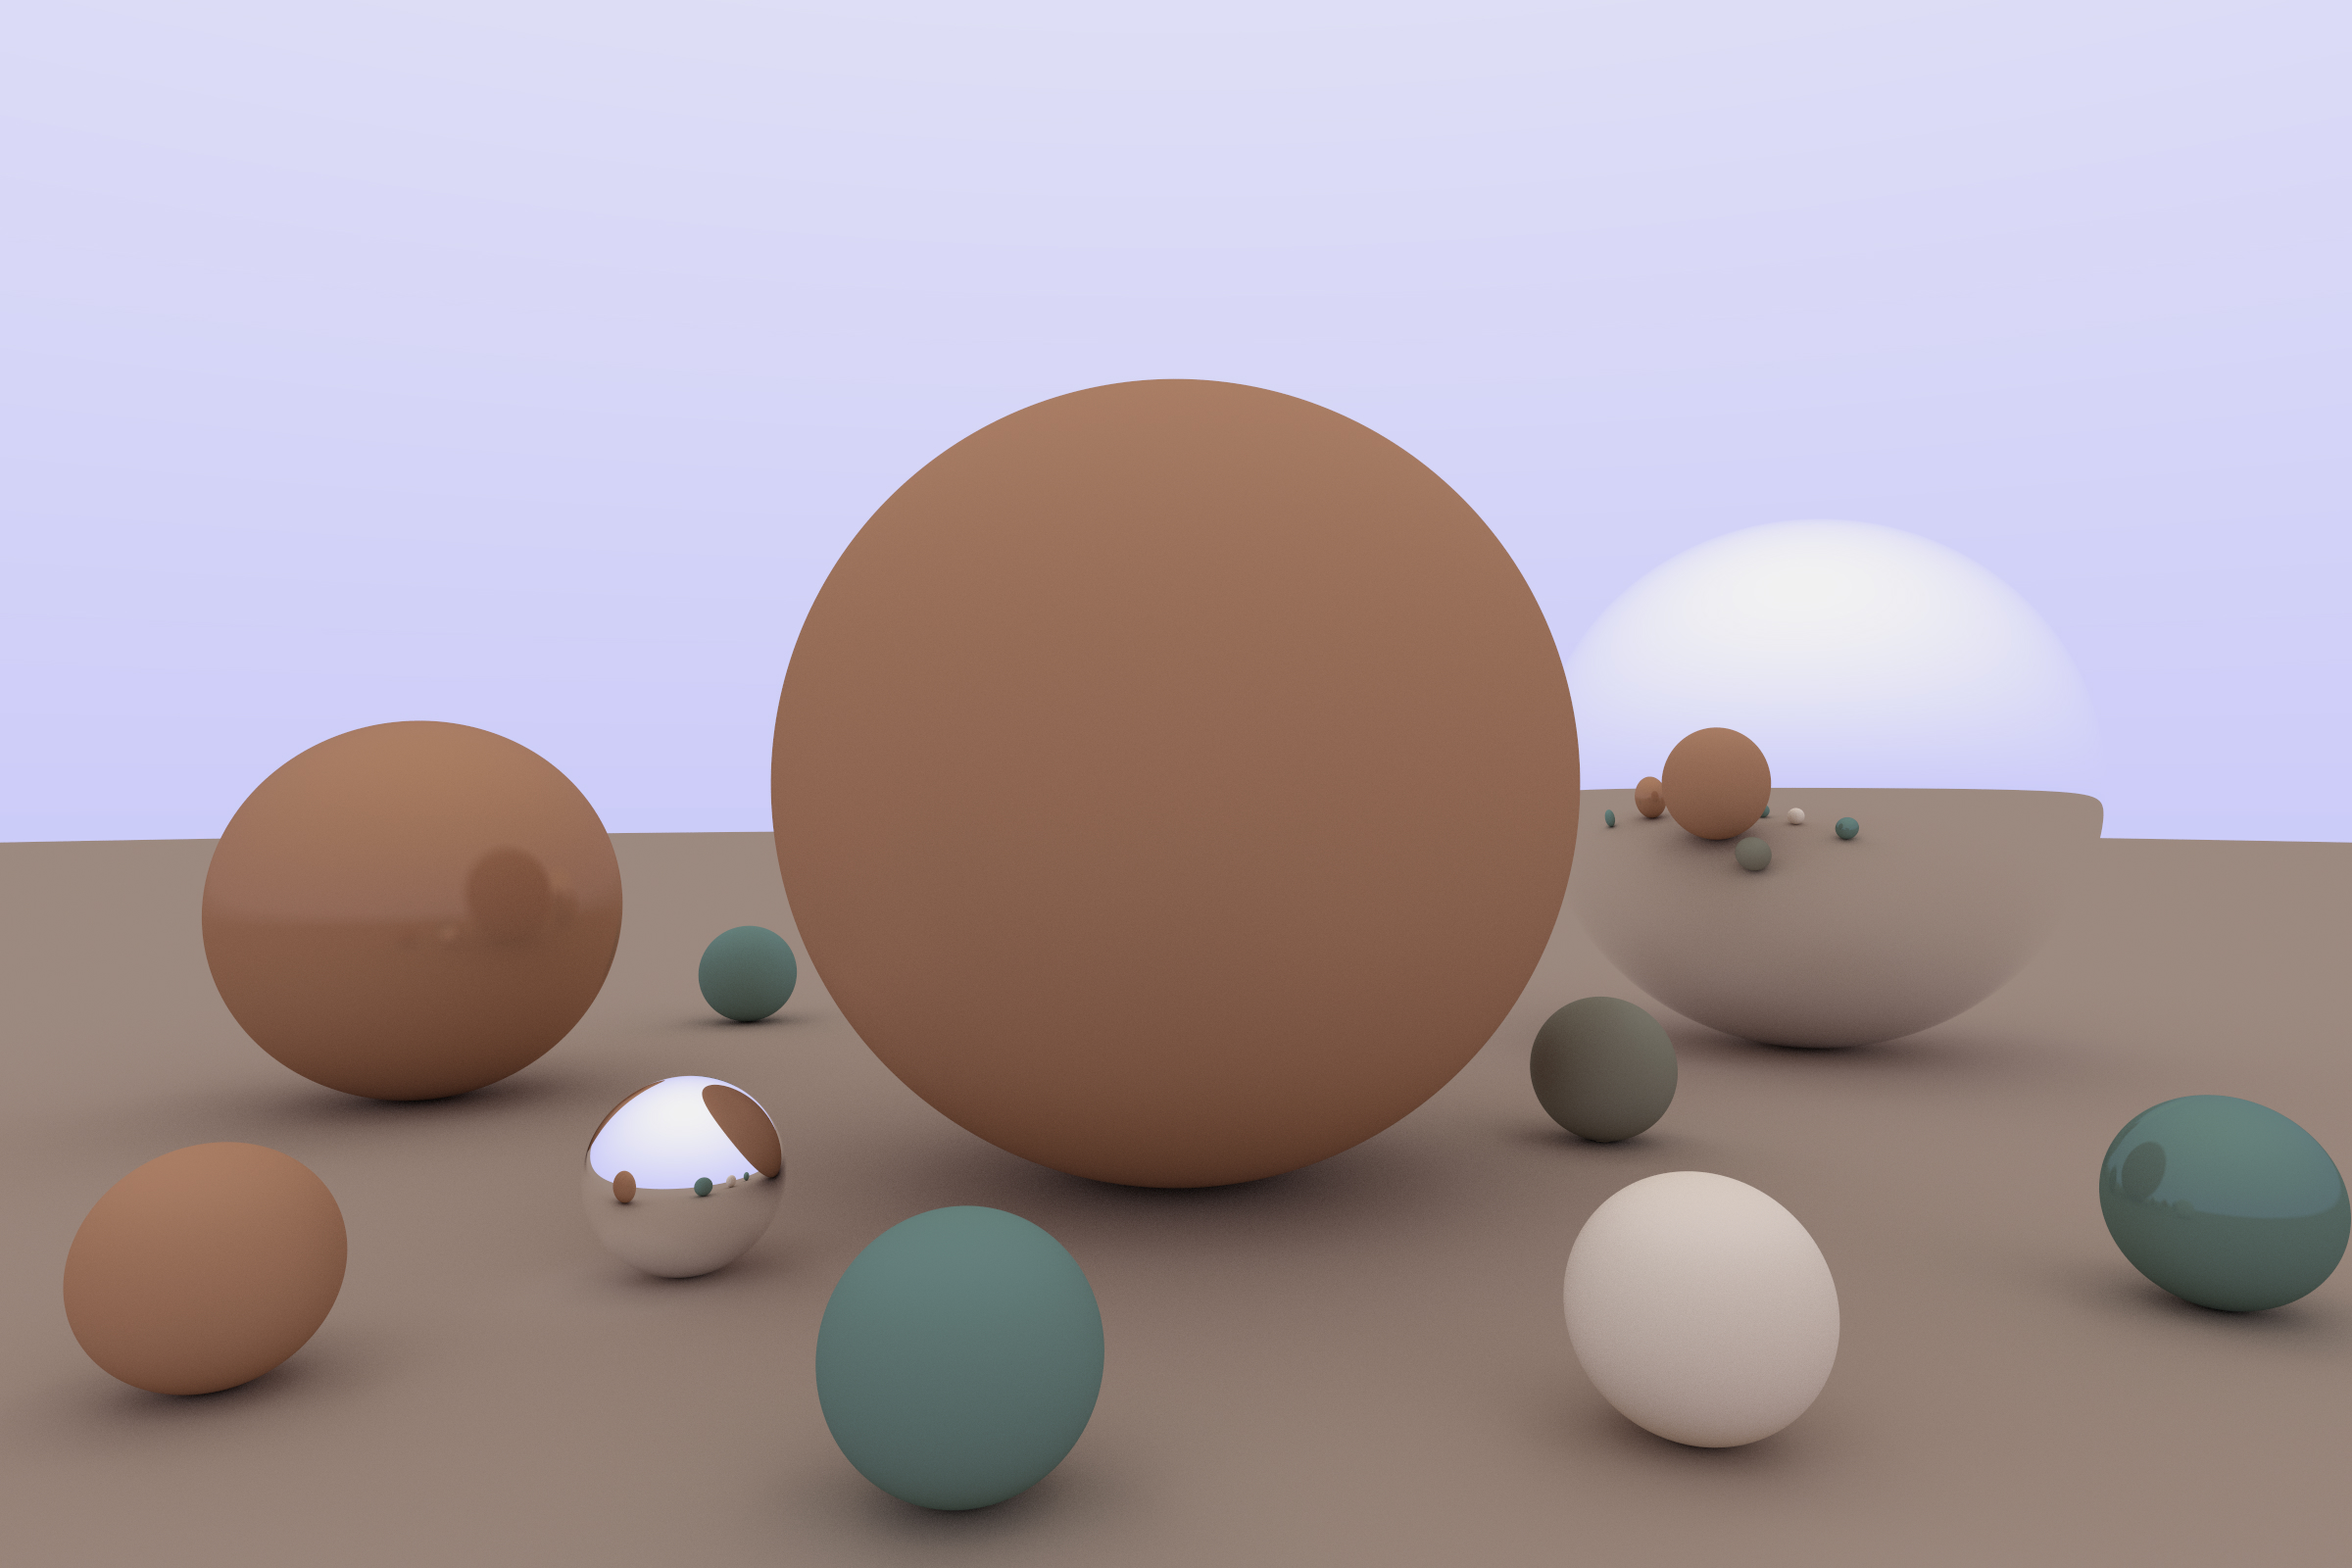
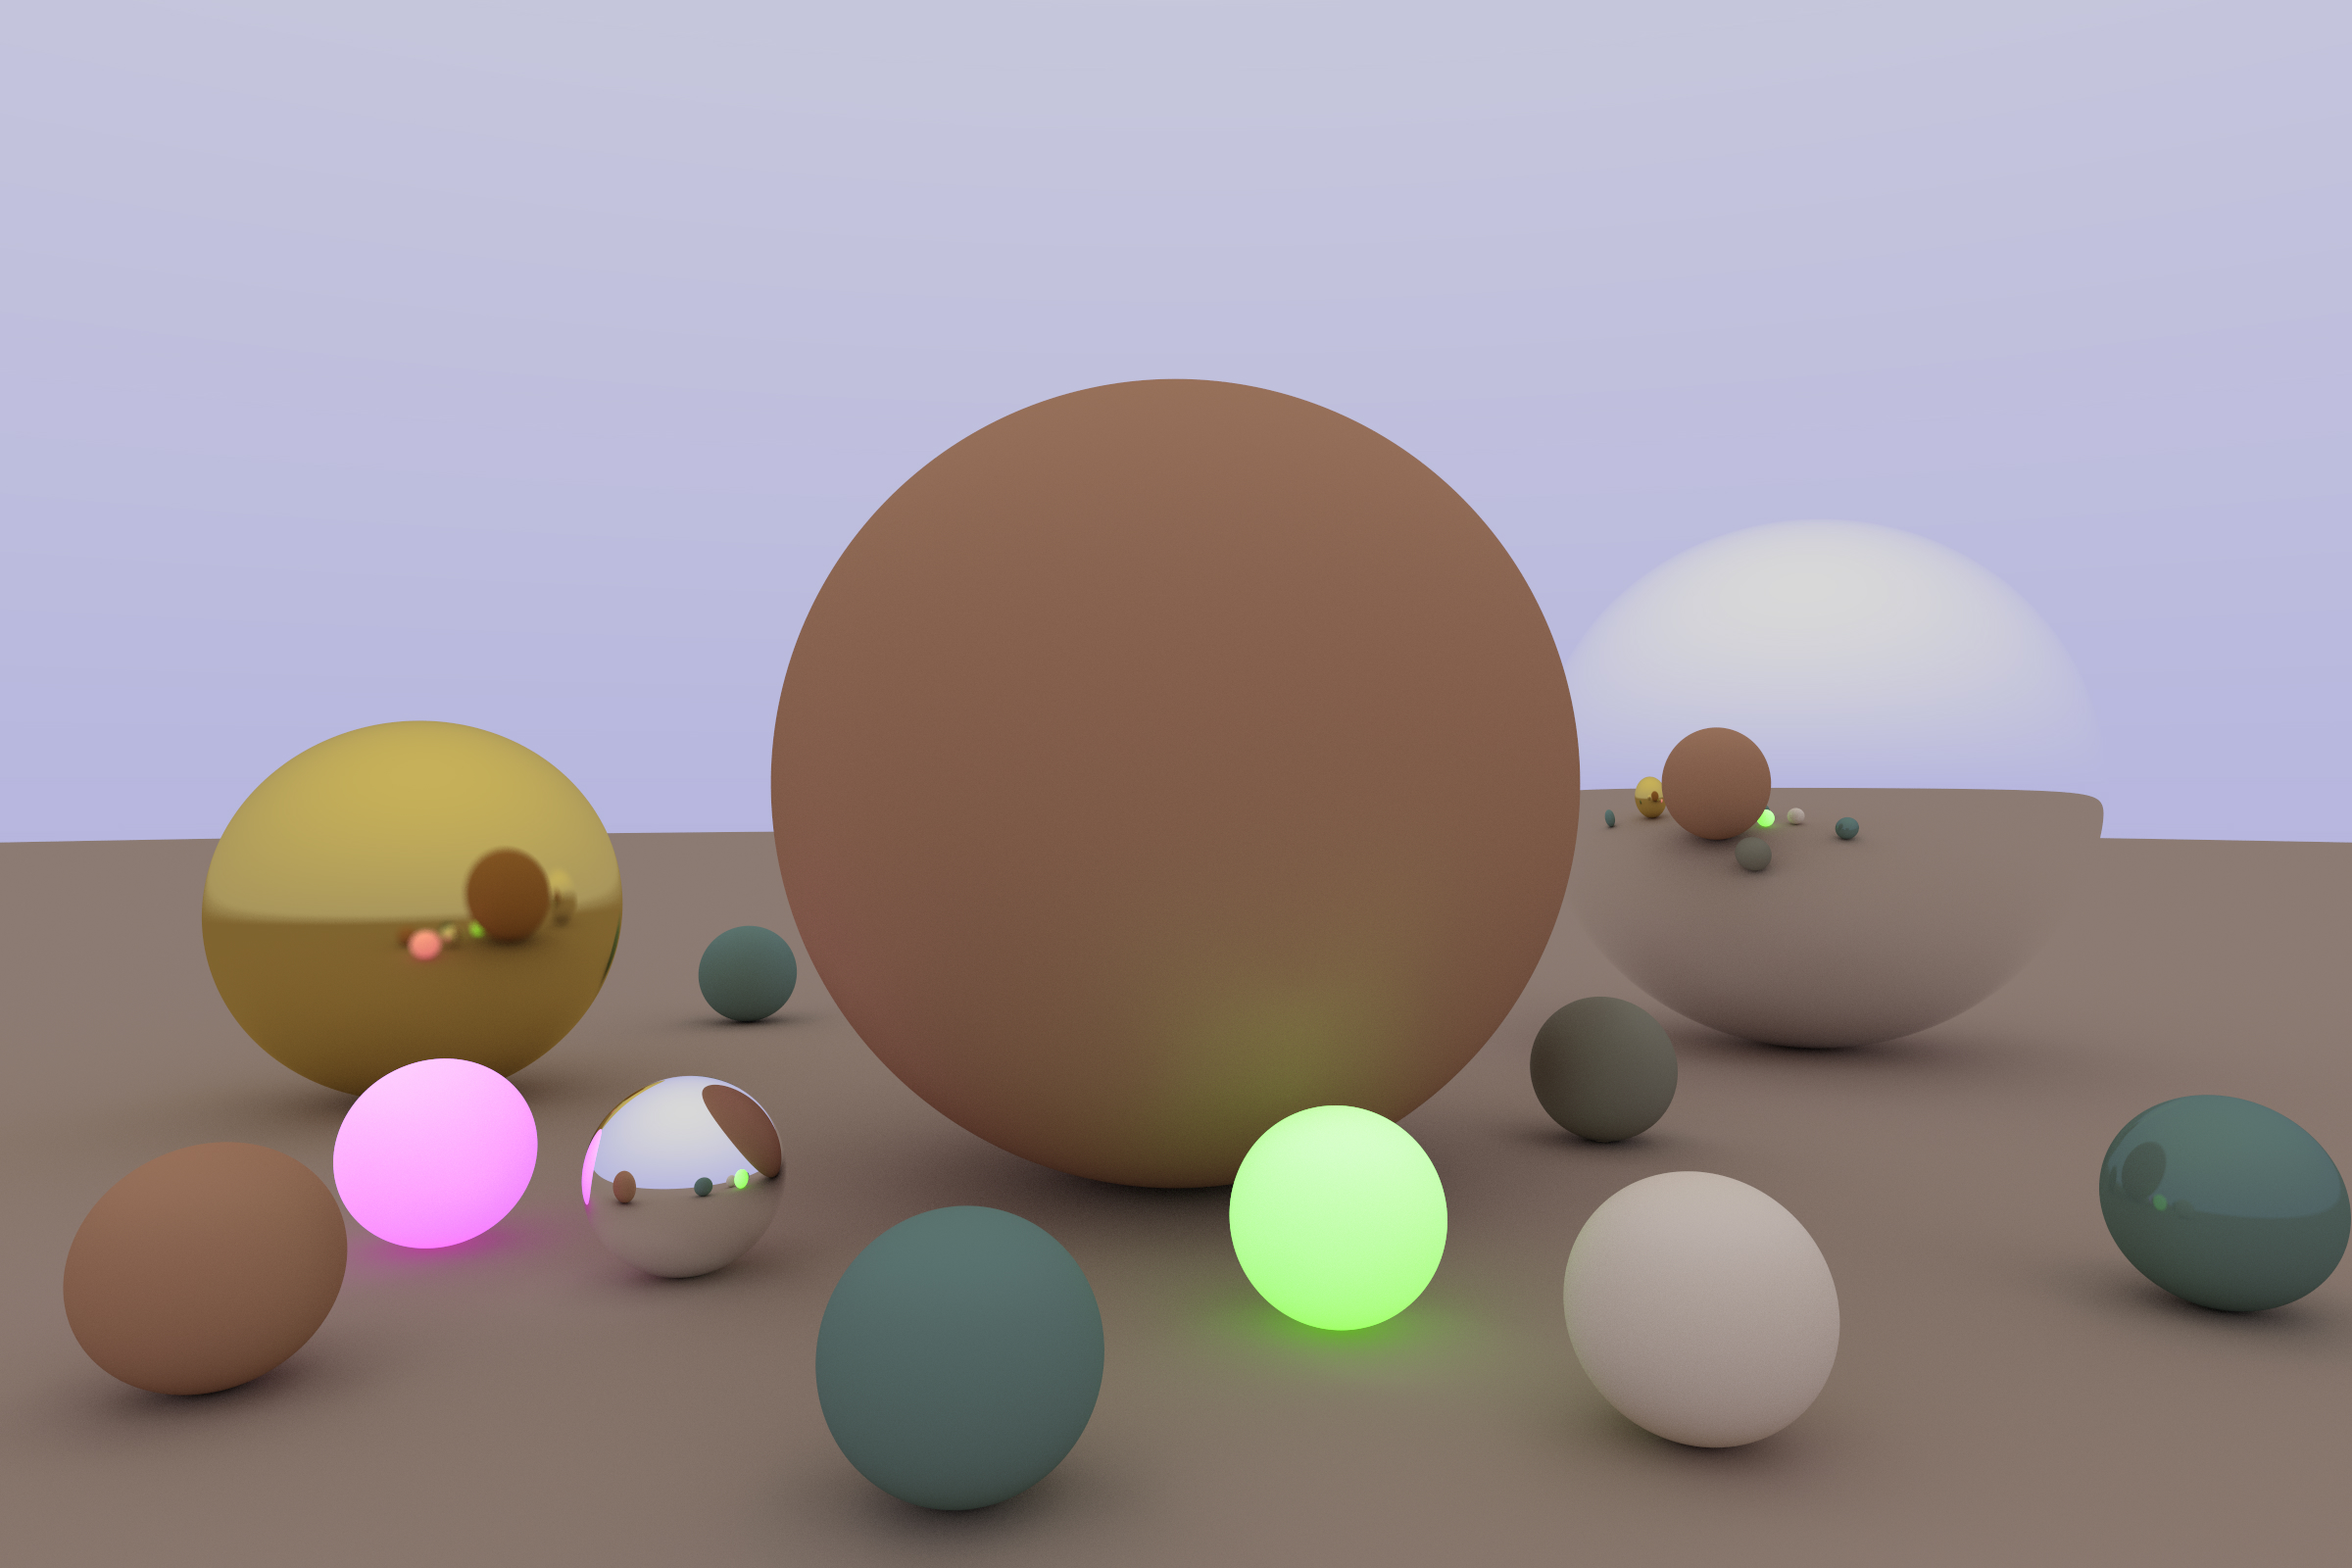
Added emitting materials. Can create neon sphere.

diff --git a/main.cpp b/main.cpp
@@ -11,31 +11,41 @@ World initWorld1() {
     auto world = World();
     Color red = {0.8, 0.2, 0.1};
     Color white = {1,1,1};
+    Color gold1 = {212 / 255.0,175 / 255.0,55 / 255.0};
+    Color gold2 = {218 / 255.0,165 / 255.0,32 / 255.0};
     Color bezh = {227 / 255.0,203 / 255.0,165 / 255.0};
     Color green = {51 / 255.0, 83 / 255.0,69 / 255.0};
     Color brown = {118 / 255.0, 91 / 255.0,70 / 255.0};
     Color redBrown = {141 / 255.0, 78 / 255.0,44 / 255.0};
     Color darkGreen = {74 / 255.0, 71 / 255.0,51 / 255.0};
+    Color neonPurple = {176 / 255.0, 38 / 255.0,255 / 255.0};
+    Color neonGreen = {57 / 255.0, 255 / 255.0,20 / 255.0};
 
 //    Material metalGreen = Material(whiteGreenish, 0.99);
-    Material mirror = Material::getSpecular(white, 0.0, 1.0);
-    Material metalRedBrown = Material::getSpecular(redBrown, 0.3, 0.3);
+    Material mirror = Material::getSpecular(white, white, 0.0, 1.0);
+    Material metalRedBrown = Material::getSpecular(redBrown, redBrown, 0.3, 0.3);
+    Material metalGold = Material::getSpecular(gold1, gold2, 0.25, 1);
     Material lambertianBezh = Material::getLambertian(bezh);
     Material lambertianGreen = Material::getLambertian(green);
     Material lambertianBrown = Material::getLambertian(brown);
     Material lambertianRedBrown = Material::getLambertian(redBrown);
-    Material metalGreen = Material::getSpecular(green, 0.2, 0.3);
+    Material metalGreen = Material::getSpecular(green, green, 0.2, 0.3);
     Material lambertianDarkGreen = Material::getLambertian(darkGreen);
+
+    Material neonPurpleGlow = Material::getGlowing(white*.8, neonPurple*3);
+    Material neonGreenGlow = Material::getGlowing(white*.8, neonGreen*3);
 
     world.addSphere(Sphere({0, 0, -2}, 0.5, lambertianRedBrown));
     world.addSphere(Sphere({1.2, 0, -3}, 0.5, mirror));
-    world.addSphere(Sphere({-1.2, -0.2, -2.5}, 0.3, metalRedBrown));
+    world.addSphere(Sphere({-1.2, -0.2, -2.5}, 0.3, metalGold));
     world.addSphere(Sphere({0.6, -0.4, -2.2}, 0.1, lambertianDarkGreen));
     world.addSphere(Sphere({0.4, -0.4, -1.2}, 0.1, lambertianBezh));
     world.addSphere(Sphere({1, -0.4, -1.5}, 0.1, metalGreen));
     world.addSphere(Sphere({-0.9, -0.4, -3.3}, 0.1, lambertianGreen));
     world.addSphere(Sphere({-0.5, -0.4, -1.6}, 0.1, mirror));
+    world.addSphere(Sphere({-0.8, -0.4, -1.7}, 0.1, neonPurpleGlow));
     world.addSphere(Sphere({-0.15, -0.4, -1.1}, 0.1, lambertianGreen));
+    world.addSphere(Sphere({0.15, -0.4, -1.45}, 0.1, neonGreenGlow));
     world.addSphere(Sphere({-0.8, -0.4, -1.3}, 0.1, lambertianRedBrown));
     world.addSphere(Sphere({0, -1000.5, -2}, 1000, lambertianBrown));
     return world;
@@ -51,8 +61,8 @@ World initWorld1() {
 //    Color bezh = {0.96,0.96,0.86};
 //
 //    Material lambertianBlue = Material::getLambertian(bluish);
-//    Material metalGreen = Material::getSpecular(whiteGreenish, 0.99, 1.0);
-//    Material mirror = Material::getSpecular(white, 0.0, 1.0);
+//    Material metalGreen = Material::getSpecular(whiteGreenish, whiteGreenish, 0.99, 1.0);
+//    Material mirror = Material::getSpecular(white, white, 0.0, 1.0);
 //    Material lambertianRed = Material::getLambertian(red);
 //    Material lambertianGreen = Material::getLambertian(green);
 //    Material lambertianBezh = Material::getLambertian(bezh);
@@ -78,7 +88,7 @@ int main() {
     const int image_width = 2400;
     const int image_height = static_cast<int>(image_width / aspect_ratio);
     const int rayBounces = 12;
-    int nSamplesPerPixel = 400;
+    int nSamplesPerPixel = 800;
 
     auto world = initWorld1();
     auto camera = Camera({0, 0, 0}, aspect_ratio);

diff --git a/src/ray_tracing_library/include/Material.h b/src/ray_tracing_library/include/Material.h
@@ -14,7 +14,7 @@ public:
     Material() = default;
 
     [[nodiscard]]
-    std::tuple<Color, Ray> getColorAndSecondaryRay(const HitResult &hitRes) const;
+    std::tuple<Color, Color, Ray> getColorAndSecondaryRay(const HitResult &hitRes) const;
 
     [[nodiscard]]
     static Material getLambertian(const Color &albedo) {
@@ -22,21 +22,34 @@ public:
     }
 
     [[nodiscard]]
-    static Material getSpecular(const Color &albedo, double roughness, double percentSpecular) {
-        return {albedo, roughness, percentSpecular};
+    static Material
+    getSpecular(const Color &albedo, const Color &specularColor, double roughness, double percentSpecular) {
+        return {albedo, specularColor, roughness, percentSpecular};
+    }
+
+    [[nodiscard]]
+    static Material getGlowing(const Color &albedo, const Color &emittedColor) {
+        return {albedo, {0, 0, 0}, 0, 0, emittedColor};
     }
 
 private:
-    explicit Material(const Color &albedo) : Material(albedo, 0, 0) {}
+    explicit Material(const Color &albedo) :
+            Material(albedo, {0, 0, 0}, 0, 0) {}
 
     Material(const Color &albedo,
+             const Color &specularColor,
              double roughnessSquared,
-             double percentSpecular) :
-            _albedo(albedo), _roughnessSquared(roughnessSquared * roughnessSquared),
-            _percentSpecular(percentSpecular), _emissiveLight(0) {}
+             double percentSpecular,
+             const Color &emittedColor = {0, 0, 0})
+            : _albedo(albedo),
+              _specularColor(specularColor),
+              _emittedColor(emittedColor),
+              _percentSpecular(percentSpecular),
+              _roughnessSquared(roughnessSquared * roughnessSquared) {}
 
     Color _albedo;
+    Color _specularColor{};
+    Color _emittedColor{};
     double _roughnessSquared{};
     double _percentSpecular{};
-    double _emissiveLight{};      // TODO-Sahar: add const.
 };

diff --git a/src/ray_tracing_library/src/Material.cpp b/src/ray_tracing_library/src/Material.cpp
@@ -6,22 +6,25 @@
 #include "Material.h"
 
 
-std::tuple<Color, Ray> Material::getColorAndSecondaryRay(const HitResult &hitRes) const {
+std::tuple<Color, Color, Ray> Material::getColorAndSecondaryRay(const HitResult &hitRes) const {
     Vec3 secondaryRayDir;
-    bool shouldDoSpecular = randomDouble() < _percentSpecular;
     Vec3 diffuseDir = normalize((hitRes.normal + randomUnitVec()));
+    Color resultColor;
+
+    double specularChance = randomDouble();
+    bool shouldDoSpecular = specularChance < _percentSpecular;
     if (shouldDoSpecular) {
         Vec3 specularDir = reflect(hitRes.hittingRay.direction(), hitRes.normal);
         specularDir = normalize(alphaBlending(specularDir, diffuseDir, _roughnessSquared));
         secondaryRayDir = specularDir;
+        resultColor = alphaBlending(_specularColor, _albedo, specularChance);
     } else {
         secondaryRayDir = diffuseDir;
+        resultColor = _albedo;
     }
 
-    Color resultColor = _albedo;    // TODO-Sahar: Should use see how to include emissive materials.
-
     Ray secondaryRay = Ray(hitRes.hitPoint, secondaryRayDir);
-    return {resultColor, secondaryRay};
+    return {_emittedColor, resultColor, secondaryRay};
 }
 
 //bool Glass::getColor(const HitResult &hitRes, Color &attenuation, Ray &reflectionRay, Ray &refractionRay) const {

diff --git a/src/ray_tracing_library/src/World.cpp b/src/ray_tracing_library/src/World.cpp
@@ -17,9 +17,9 @@ Color World::rayTrace(const Ray &ray, int bounce) const {
     bool hit = getHitResult(ray, hitRes, material);
 
     if (hit) {
-        auto [attenuation, secondaryRay] = material.getColorAndSecondaryRay(hitRes);
+        auto [emittedColor, attenuation, secondaryRay] = material.getColorAndSecondaryRay(hitRes);
         Color scatterColor = rayTrace(secondaryRay, bounce - 1) * attenuation;
-        return scatterColor;
+        return emittedColor + scatterColor;
     } else {
         return World::backgroundColor(ray);
     }
@@ -45,7 +45,7 @@ bool World::getHitResult(const Ray &ray, HitResult &hitRes, Material &material) 
 Color World::backgroundColor(const Ray &ray) {
     auto unitDir = normalize(ray.direction());
     auto t = 0.5 * (unitDir.y() + 1.0);
-    return alphaBlending({0.4, 0.4, 1}, {.9, .9, .9}, t);
+    return alphaBlending({0.4, 0.4, 1}, {.9, .9, .9}, t) * 0.8;
 }
 
 
